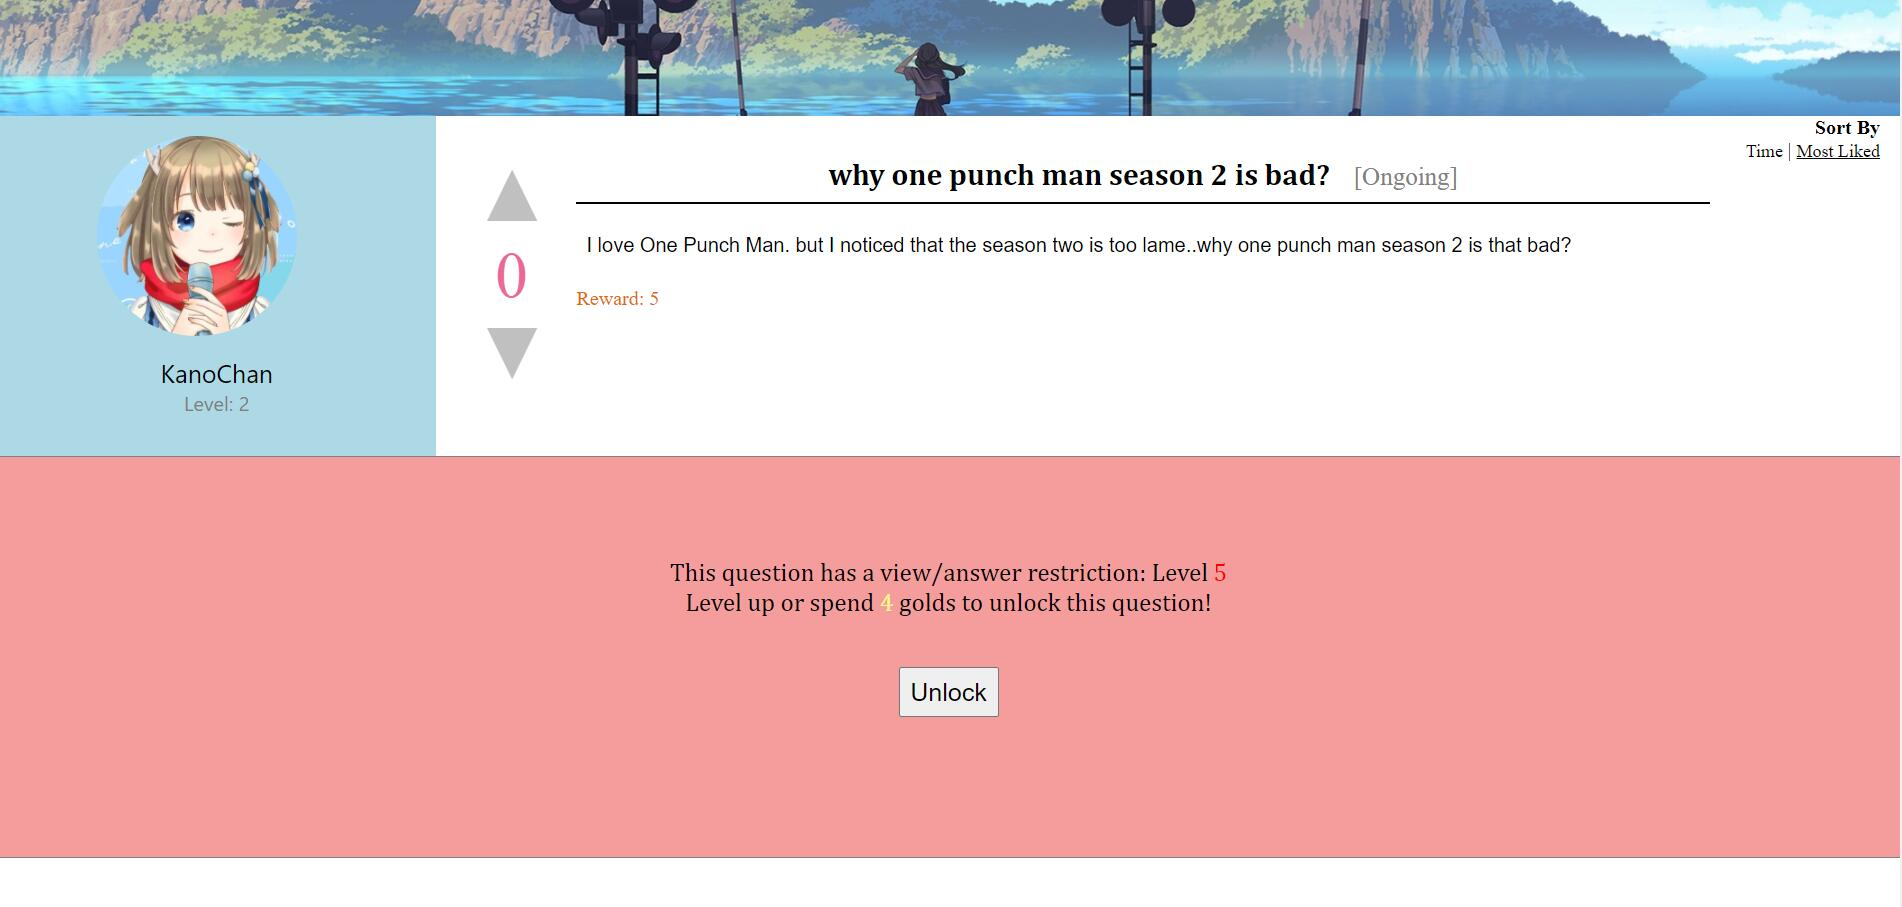
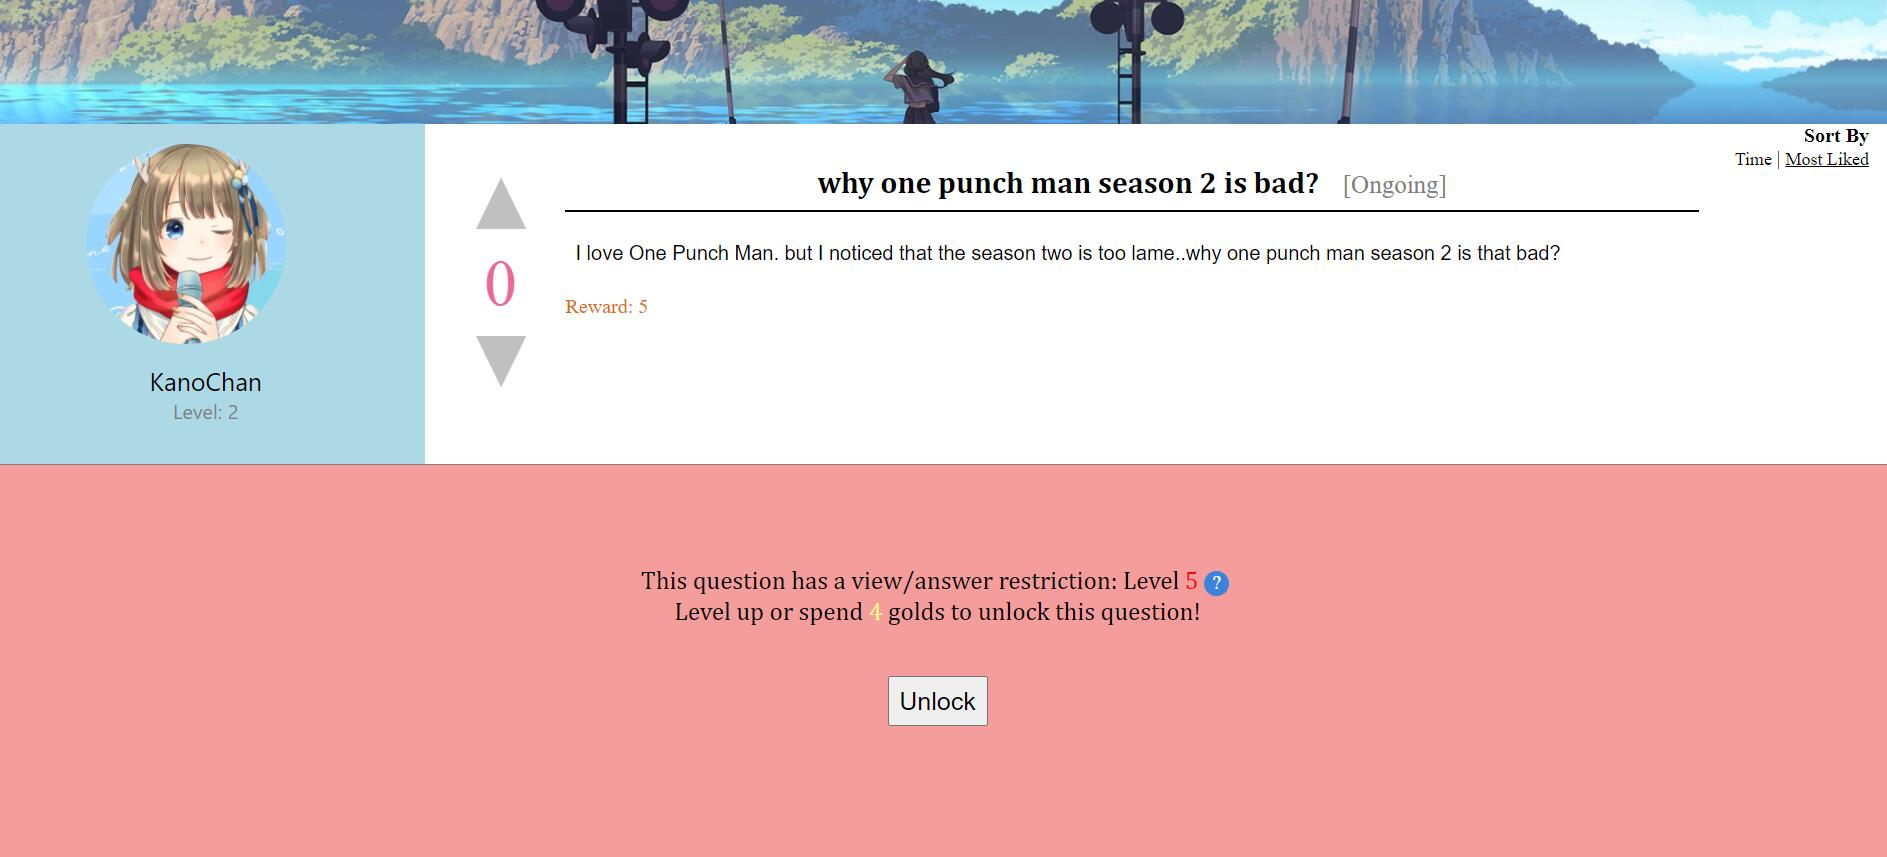
bug fix + function move + readme +

Changed region(s): [[0.0, 0.0, 1.0, 0.5461], [0.0, 0.9405, 1.0, 1.0], [0.3381, 0.6068, 0.6762, 0.8495]]

diff --git a/rule.html b/rule.html
@@ -72,9 +72,15 @@
             <li>Once an ansnwer is accpeted, you will get another 20 exp.</li>
         </ul>
         <h3>Why pursue higher level?</h3>
-        <p>Some questions may block to lower level users and a highest level can guarantee a full view of the forum.
-            On the other hand, you can set level limit up to your level when you asking a question!
+        <p>Some questions may be blocked to lower level users; a highest level can guarantee a full view of the forum.
+            On the other hand, you can set a level limit when you are asking a question to prevent spam answers!
         </p>
+        <p> For example: <br/>
+            If you are level 2, you will not be able to view the answers to a question with level 3+ restriction. </br>
+            If you want to view the answers to a question with Level 5 restriction, you need to spend 3 golds (5 - 2) to unlock this quesiton.
+
+        </p>
+
     </div>
     <div class="text_container">
         <h2 class="center">Gold System</h2>
@@ -87,6 +93,38 @@
         <p>You can offer a reward for the question. The bounty gold will be sent to whom whose answer get accpeted.
             This can make your question more attractive. On top of that, the amount of gold is open to everyone, it can show your prestige.
         </p>
+    </div>
+
+    <div class="footer">
+        Powered By 
+        <br/>
+        <div class="contributor">
+            Songheng Yin 
+            <a href="https://github.com/ReinaKousaka" target="_blank">
+                <img class="footer-icon" src="images/others/github.jpg">
+            </a>
+            <a href="mailto:songheng.yin@mail.utoronto.ca" target="_blank">
+                <img class="footer-icon" src="images/others/email.jpg">
+            </a>
+        </div>   
+        <div class="contributor">
+            Echo Zheng
+            <a href="https://github.com/echoztoronto" target="_blank">
+                <img class="footer-icon" src="images/others/github.jpg">
+            </a>
+            <a href="mailto:echo.zheng@mail.utoronto.ca" target="_blank">
+                <img class="footer-icon" src="images/others/email.jpg">
+            </a>
+        </div>   
+        <div class="contributor">
+            Ziang Zhang
+            <a href="https://github.com/Ziang-Zhang" target="_blank">
+                <img class="footer-icon" src="images/others/github.jpg">
+            </a>
+            <a href="mailto:ziang.zhang@mail.utoronto.ca" target="_blank">
+                <img class="footer-icon" src="images/others/email.jpg">
+            </a>
+        </div>   
     </div>
 </body>
 </html>

diff --git a/style/question.js b/style/question.js
@@ -52,7 +52,9 @@ function updatePage(sort="like") {     // sort range in {"like", "time"}
         //add text editor if question is not resolved
         if(qObject.status != "Resolved") {
             document.getElementById("add-answer-btn").style = "visibility: visible;";
-            initiate_answer_editor();
+            if(quill == null) {
+                initiate_answer_editor();
+            }  
         } else {
             document.getElementById("add-answer-btn").style = "visibility: hidden;";
         }
@@ -178,13 +180,21 @@ function editor_submit() {
         message_element.style = "color: red;";
         message_element.innerHTML = "Your answer must be greater than 10 characters!";
     } else {
+        // TODO: add a new answer, update to server
+        // TODO: add 10 exp to user, update to server
+
         add_self_answer(quillHTML);
         document.getElementById("editor-window").style = "visibility: hidden;";
         document.getElementById("add-answer-btn").style = "visibility: hidden;";
         message_element.style = "color: black;";
-        message_element.innerHTML = "Add a new question";
+        message_element.innerHTML = "Add a new answer";
+        //create a notif 
+        let notif = document.createElement("div");
+        document.body.appendChild(notif);
+        notif.innerHTML = `exp + 10`;
+        notif.className = "center-notif";
+        add_fade(notif);
     }
-
 }
 
 

diff --git a/style/question-special.js b/style/question-special.js
@@ -90,20 +90,7 @@ function pay_to_view(){
     while (elements.length > 0) elements[0].remove();
 }
 
-// function that add fading effect
-function add_fade(element) {
-    let op = 1;
 
-    let temp = setInterval(function () {
-        if (op <= 0.1){
-            clearInterval(temp);
-            element.style.display = 'none';
-        }
-        element.style.opacity = op;
-        element.style.filter = 'alpha(opacity=' + op * 100 + ")";
-        op -= op * 0.1;
-    }, 50);
-}
 
 function unlock_level_limit() {
     // TODO: pull data to verify if user has enough gold
@@ -113,16 +100,11 @@ function unlock_level_limit() {
     // if has enough gold
     //remove limit-container
     remove_element_by_ID("limit-container");
-    //create a spend-gold-notif
+    //create a notif
     let notif = document.createElement("div");
     document.body.appendChild(notif);
     notif.innerHTML = `Gold - <span id="gold-spent"> 4 </span>`;
-    notif.className = "spend-gold-notif";
-    //make notif disappear after 3 seconds
-    // setTimeout(function() {
-    //     notif.style.visibility = "hidden";
-    //     notif.innerHTML = ``;
-    // }, 3000);
+    notif.className = "center-notif";
     add_fade(notif);
 
     // TODO: pull data and add answer posts

diff --git a/style/question-special.css b/style/question-special.css
@@ -83,15 +83,18 @@ overflow: auto;
   font-size: 25px;
 }
 
-.spend-gold-notif {
-  position: fixed;
-  width: 200px;
-  top: calc(50% - 100px);
-  left: calc(50% - 100px);
+
+#user-rule {
+  display: inline-block;
+  margin-right: 5px;
+  background-color: rgb(61, 130, 221);
+  color: white;
+  width: 25px;
+  height: 25px;
   text-align: center;
-  background-color: rgba(255, 255, 255, 0.623);
-  color: rgb(255, 0, 0);
-  padding-top: 40px;
-  padding-bottom: 40px;
-  font-size: 28px;
+  border-radius: 50%;
+  box-shadow: 0 2px 2px -2px rgba(0,0,0,.2);
+  text-decoration: none;
+  font-family:'Times New Roman', Times, serif;
+  font-size: 20px;
 }

diff --git a/style/util.js b/style/util.js
@@ -20,3 +20,17 @@ function remove_element_by_ID(ID) {
         document.getElementById(ID).remove();
     }
 }
+
+// function that add fading effect
+function add_fade(element) {
+    let op = 1;
+    let temp = setInterval(function () {
+        if (op <= 0.1){
+            clearInterval(temp);
+            element.style.display = 'none';
+        }
+        element.style.opacity = op;
+        element.style.filter = 'alpha(opacity=' + op * 100 + ")";
+        op -= op * 0.1;
+    }, 100);
+}

diff --git a/question-low.html b/question-low.html
@@ -78,7 +78,9 @@
 		<!-- Level limitation  -->
 		<div id="limit-container">
 			This question has a view/answer restriction: Level
-			<span id="limit-level"> 5 </span> <br/>
+			<span id="limit-level"> 5 </span> 			
+			<a id="user-rule" href="rule.html" target="_blank"> ? </a> 
+			<br/>
 			Level up or spend <span id="limit-gold"> 4 </span> golds to unlock this question! <br/>
 			<button id="limit-btn" onclick="unlock_level_limit()"> Unlock </button> 
 		</div>

diff --git a/style/main.css b/style/main.css
@@ -296,3 +296,16 @@ html, body {
     height: 100%;
     padding-top: 20%;
 }
+
+.center-notif {
+    position: fixed;
+    width: 200px;
+    top: calc(50% - 100px);
+    left: calc(50% - 100px);
+    text-align: center;
+    background-color: rgba(255, 255, 255, 0.623);
+    color: rgb(255, 0, 0);
+    padding-top: 40px;
+    padding-bottom: 40px;
+    font-size: 28px;
+  }

diff --git a/README.md b/README.md
@@ -60,6 +60,7 @@ Entrance: Click on the __Q&A Forum__ in the top left navbar. <img src="/images/r
 * Click on any question title, it will open the corresponding question page in a new tab.
 * Click on any user name, it will open the profile page of the corresponding user in a new tab.
 * Click on __+__ button <img src="/images/readme/phase1/add_btn.jpg" width="50">, you can add a new question. <br/>
+  * note: for now we do not save the new question infomation, so you will not be able to open the new question link.
 ![](/images/readme/phase1/new_question.jpg?raw=true) <br/><br/><br/>
 
 <img src="/images/readme/phase1/sort.jpg" width="140px"> <br/>
@@ -121,7 +122,7 @@ Entrance: On any question page, click on __Asker__ in the nav bar <br/><br/>
 #### 3.4 Low Level User View
 Entrance: On any question page, click on __Low Level__ button in the nav bar <br/><br/>
 <img src="/images/readme/phase1/low.jpg"> <br/>
-* The answers are all blurred, while you can click on __Unlock__ and then will be able to see the answers.
+* The answers are hidden as you do not meet the level restriction for this question. You can click on __Unlock__ to spend gold and then you will be able to see the answers.
 
 ### 4. Profile Page
 #### 4.1 Normal View
